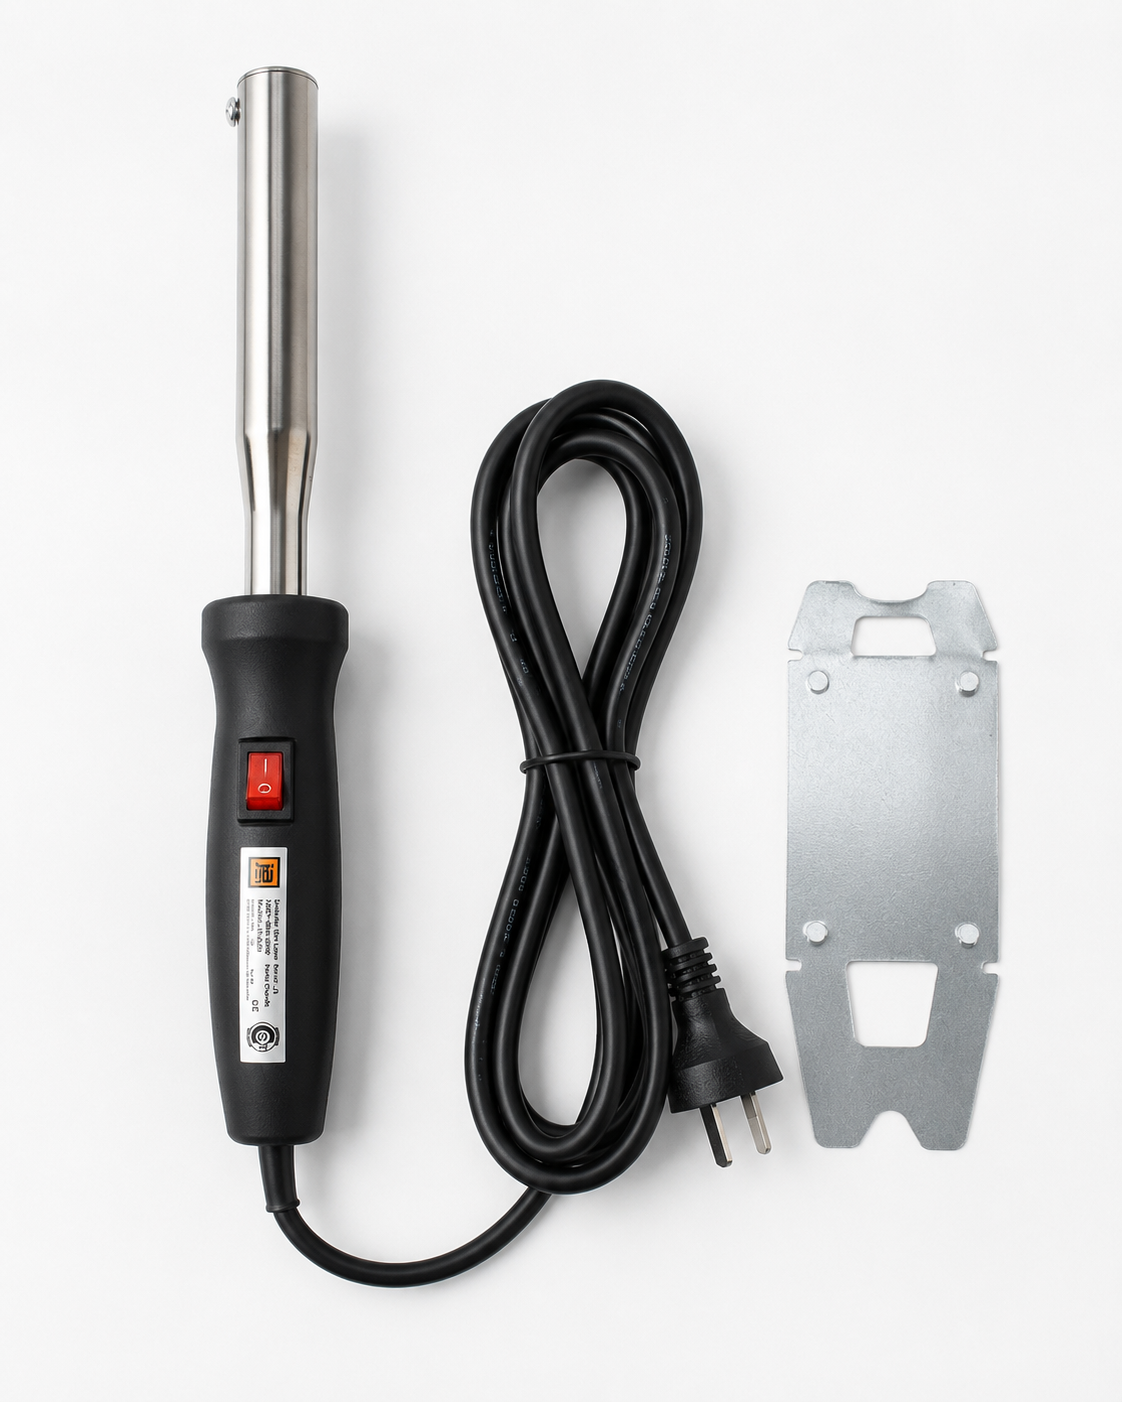
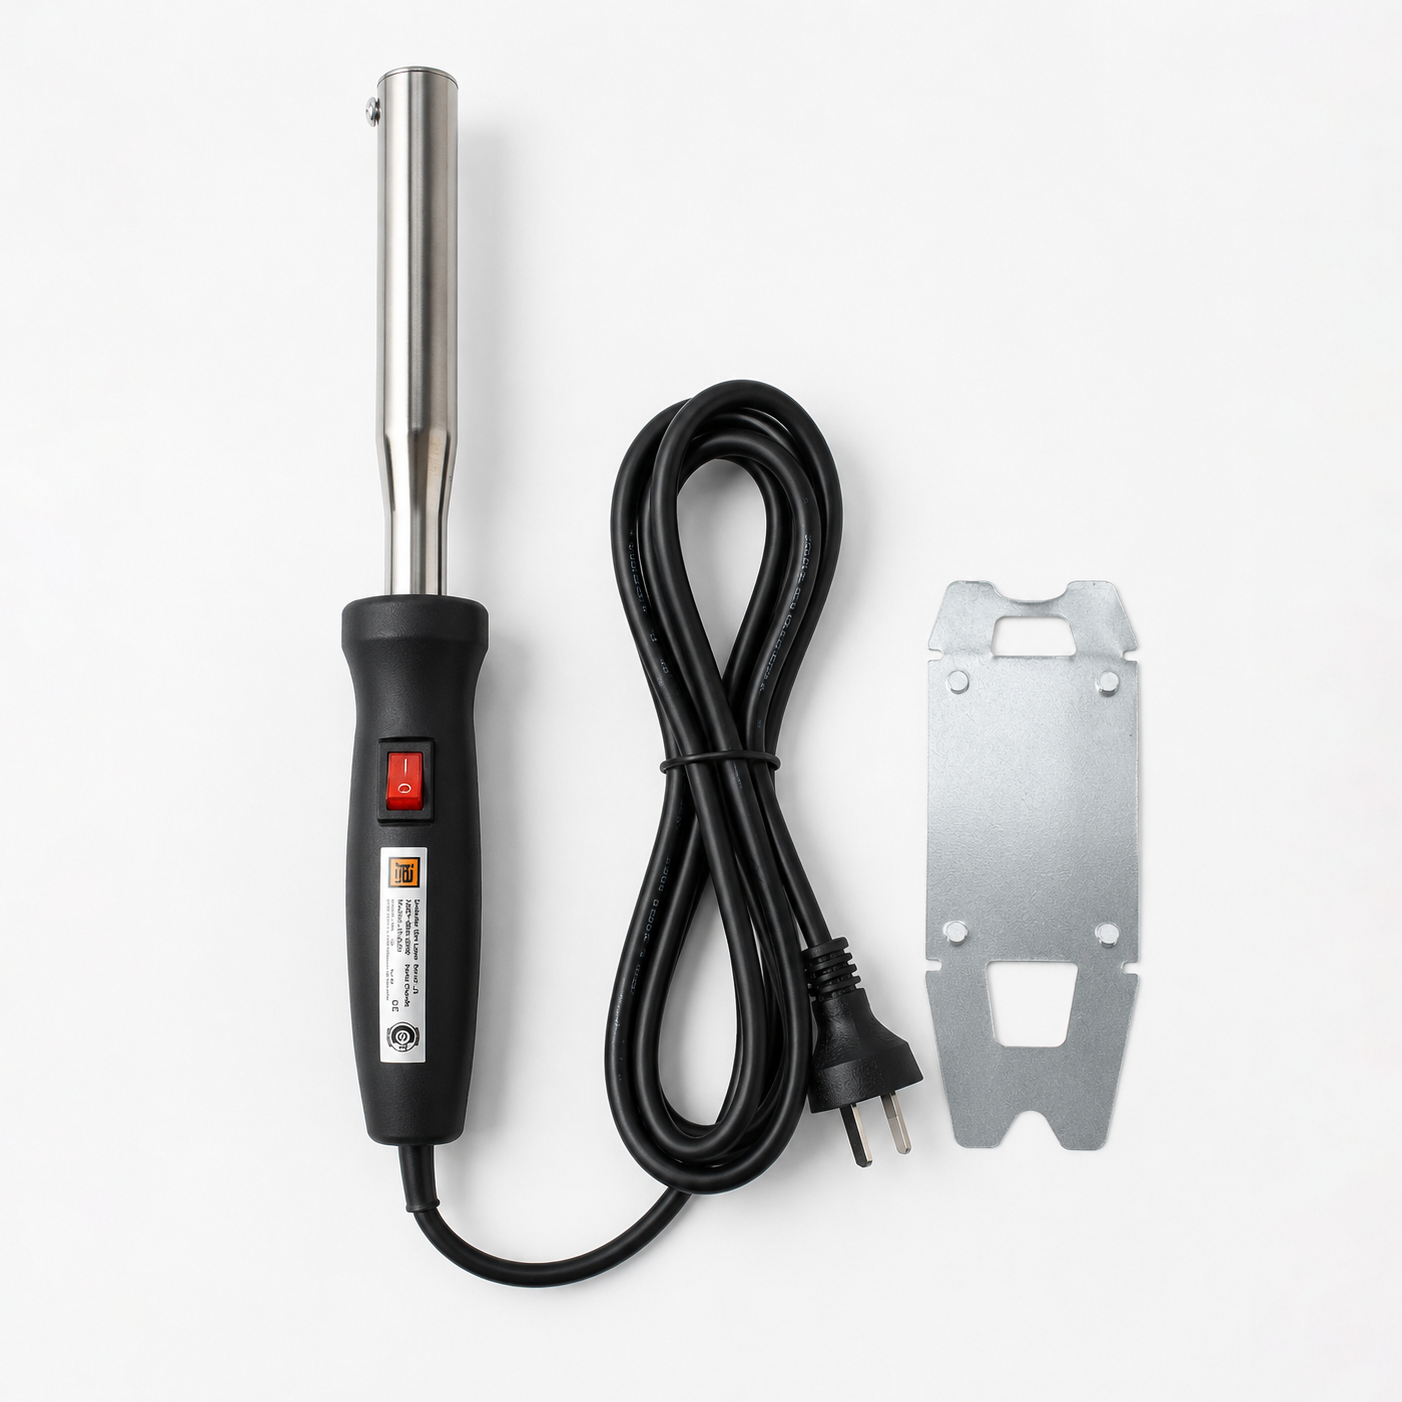
Mejorar galería y tarjetas de accesorios con fotos SEO del mango de golpe.
Agrega carrusel con imágenes renombradas, actualiza las fotos de portada del calentador y mango, y ajusta el recorte en las tarjetas del catálogo.

Changed region(s): [[0.156, 0.0307, 0.9046, 0.9201]]

diff --git a/src/data/accessories.ts b/src/data/accessories.ts
@@ -62,7 +62,7 @@ export const accessories: Accessory[] = [
       'Calentador eléctrico para sellos de bronce. Alternativa práctica al calentado por hornalla o soplete, ideal para uso frecuente en taller.',
     heroDescription:
       'Calentador eléctrico para poder hacer marcas por calor, sin la necesidad de exponer el sello a fuego directo.',
-    image: '/images/accesorios/calentador electrico/calentador-electrico.png',
+    image: '/images/accesorios/calentador electrico/ChatGPT Image 4 jun 2026, 18_10_05.png',
     galleryImages: [
       '/images/accesorios/calentador electrico/calentador-electrico.png',
       '/images/accesorios/calentador electrico/ChatGPT Image 4 jun 2026, 18_10_05.png',
@@ -148,8 +148,16 @@ export const accessories: Accessory[] = [
       'Mango metálico para marcar por golpe. Complementa el mango a rosca que viene con cada sello cuando necesitás impacto directo sobre el material.',
     heroDescription:
       'El mango metálico es una herramienta que ayuda al marcado a través de golpe. Se recomienda utilizarlo en sellos hasta un máximo de 3×3 cm.',
-    image: '/images/accesorios/mango de golpe/mango-de-golpe.png',
-    galleryImages: ['/images/accesorios/mango de golpe/mango-de-golpe.png'],
+    image: '/images/accesorios/mango de golpe/mango-de-golpe-acero-rosca-encastre.png',
+    galleryImages: [
+      '/images/accesorios/mango de golpe/mango-de-golpe-de-acero-para-cuero.png',
+      '/images/accesorios/mango de golpe/mango-de-golpe-acero-rosca-encastre.png',
+      '/images/accesorios/mango de golpe/mango-de-golpe-acero-con-sello-bronce.png',
+      '/images/accesorios/mango de golpe/mango-de-golpe-acero-con-martillo.png',
+      '/images/accesorios/mango de golpe/mango-de-golpe-marcado-en-cuero.png',
+      '/images/accesorios/mango de golpe/mango-de-golpe-uso-con-martillo-cuero.png',
+      '/images/accesorios/mango de golpe/mango-de-golpe-estampado-cuero.png',
+    ],
     price: 25000,
     includes: ['Mango metálico', 'Encastre por rosca estándar Alcohn'],
     seoTitle: 'Mango metálico de golpe para sellos de bronce | Alcohn',
@@ -183,13 +191,13 @@ export const accessories: Accessory[] = [
     inclusionCopy:
       'Incluye el mango metálico listo para enroscar tu sello y marcar por golpe con mayor control.',
     inclusionIllustration: {
-      src: '/images/accesorios/mango de golpe/que incluye.jpeg',
+      src: '/images/accesorios/mango de golpe/mango-de-golpe-que-incluye.jpeg',
       alt: 'Ilustración del mango metálico con encastre por rosca',
       width: 1122,
       height: 1402,
     },
     videoSrc: '/videos/Manual/Cuero%20Golpe.mp4',
-    videoPoster: '/images/accesorios/mango de golpe/mango-de-golpe.png',
+    videoPoster: '/images/accesorios/mango de golpe/mango-de-golpe-de-acero-para-cuero.png',
     purchaseCtaLabel: 'Encargá tu mango de golpe',
     highlights: [
       'Diseño listo para comprar',

diff --git a/src/components/accesorios/AccessoryImageGallery.tsx b/src/components/accesorios/AccessoryImageGallery.tsx
@@ -11,6 +11,12 @@ interface AccessoryImageGalleryProps {
   className?: string;
 }
 
+function altFromImagePath(src: string, fallback: string): string {
+  const filename = src.split('/').pop()?.replace(/\.[^.]+$/, '').replace(/-/g, ' ');
+  if (!filename) return fallback;
+  return filename.charAt(0).toUpperCase() + filename.slice(1);
+}
+
 export default function AccessoryImageGallery({
   images,
   alt,
@@ -38,7 +44,7 @@ export default function AccessoryImageGallery({
         <Image
           key={src}
           src={src}
-          alt={`${alt} - imagen ${index + 1}`}
+          alt={altFromImagePath(src, `${alt} - imagen ${index + 1}`)}
           fill
           className={`object-contain p-4 transition-opacity duration-700 ease-in-out ${
             index === currentIndex ? 'opacity-100' : 'opacity-0'
@@ -47,6 +53,19 @@ export default function AccessoryImageGallery({
           priority={priority && index === 0}
         />
       ))}
+
+      {images.length > 1 && (
+        <div className="absolute inset-x-0 bottom-3 flex justify-center gap-1.5 px-4" aria-hidden="true">
+          {images.map((src, index) => (
+            <span
+              key={src}
+              className={`h-1 flex-1 max-w-8 transition-colors duration-300 ${
+                index === currentIndex ? 'bg-[var(--alcohn-bronze)]' : 'bg-neutral-300'
+              }`}
+            />
+          ))}
+        </div>
+      )}
     </div>
   );
 }

diff --git a/src/components/AccessoryCard.tsx b/src/components/AccessoryCard.tsx
@@ -38,7 +38,7 @@ export default function AccessoryCard({ accessory }: AccessoryCardProps) {
             src={accessory.image}
             alt={accessory.title}
             fill
-            className="object-cover"
+            className="object-cover object-center"
             sizes="(max-width: 768px) 100vw, 33vw"
           />
         </div>
